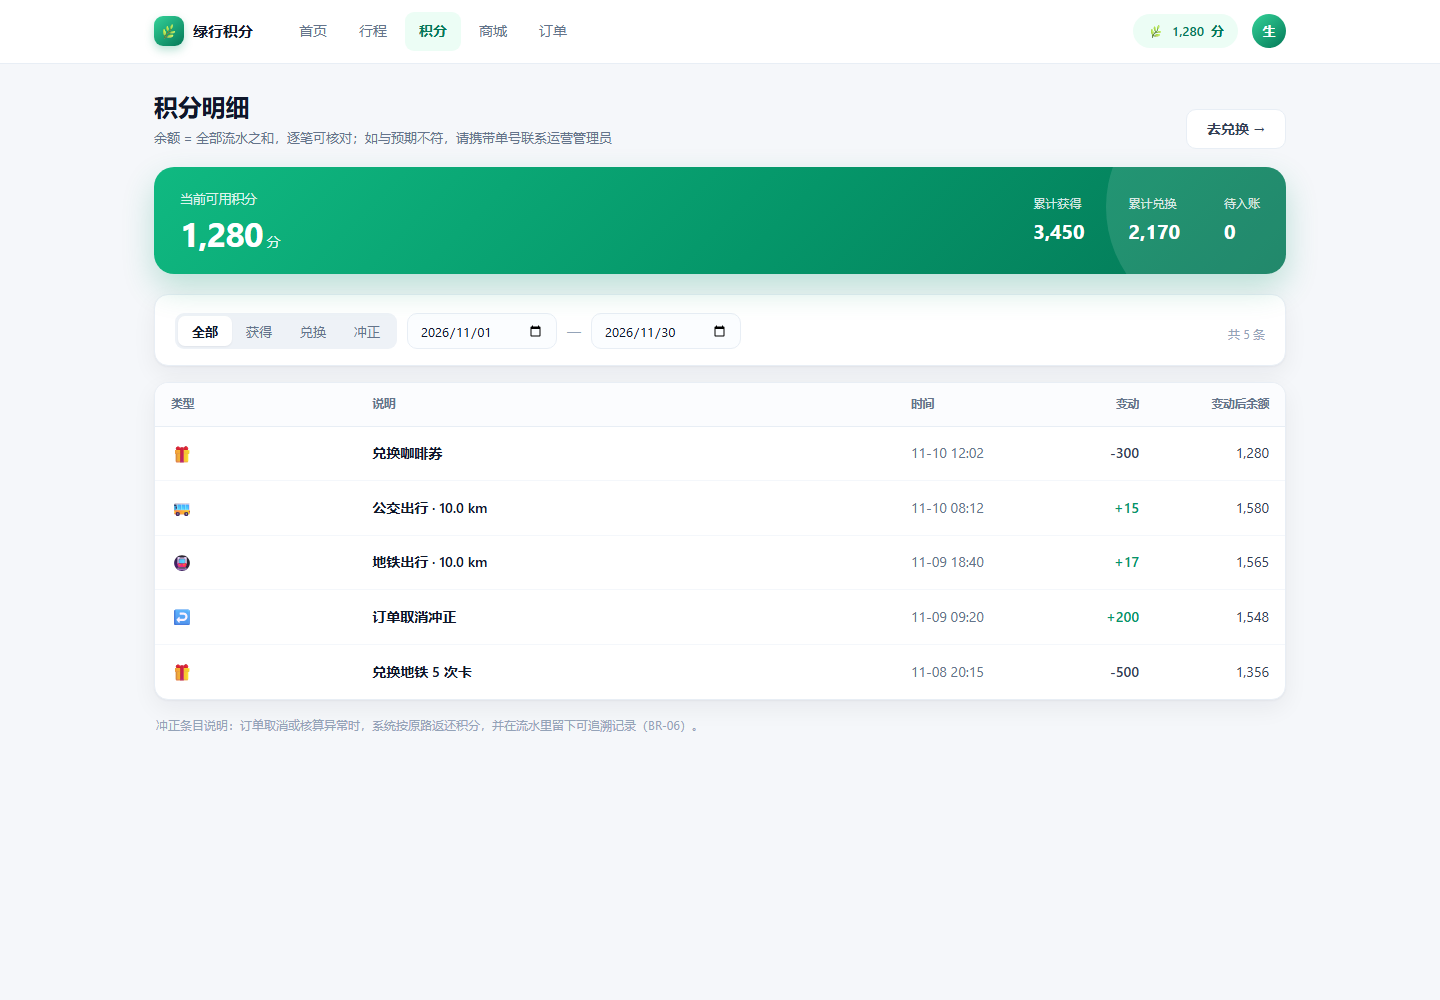
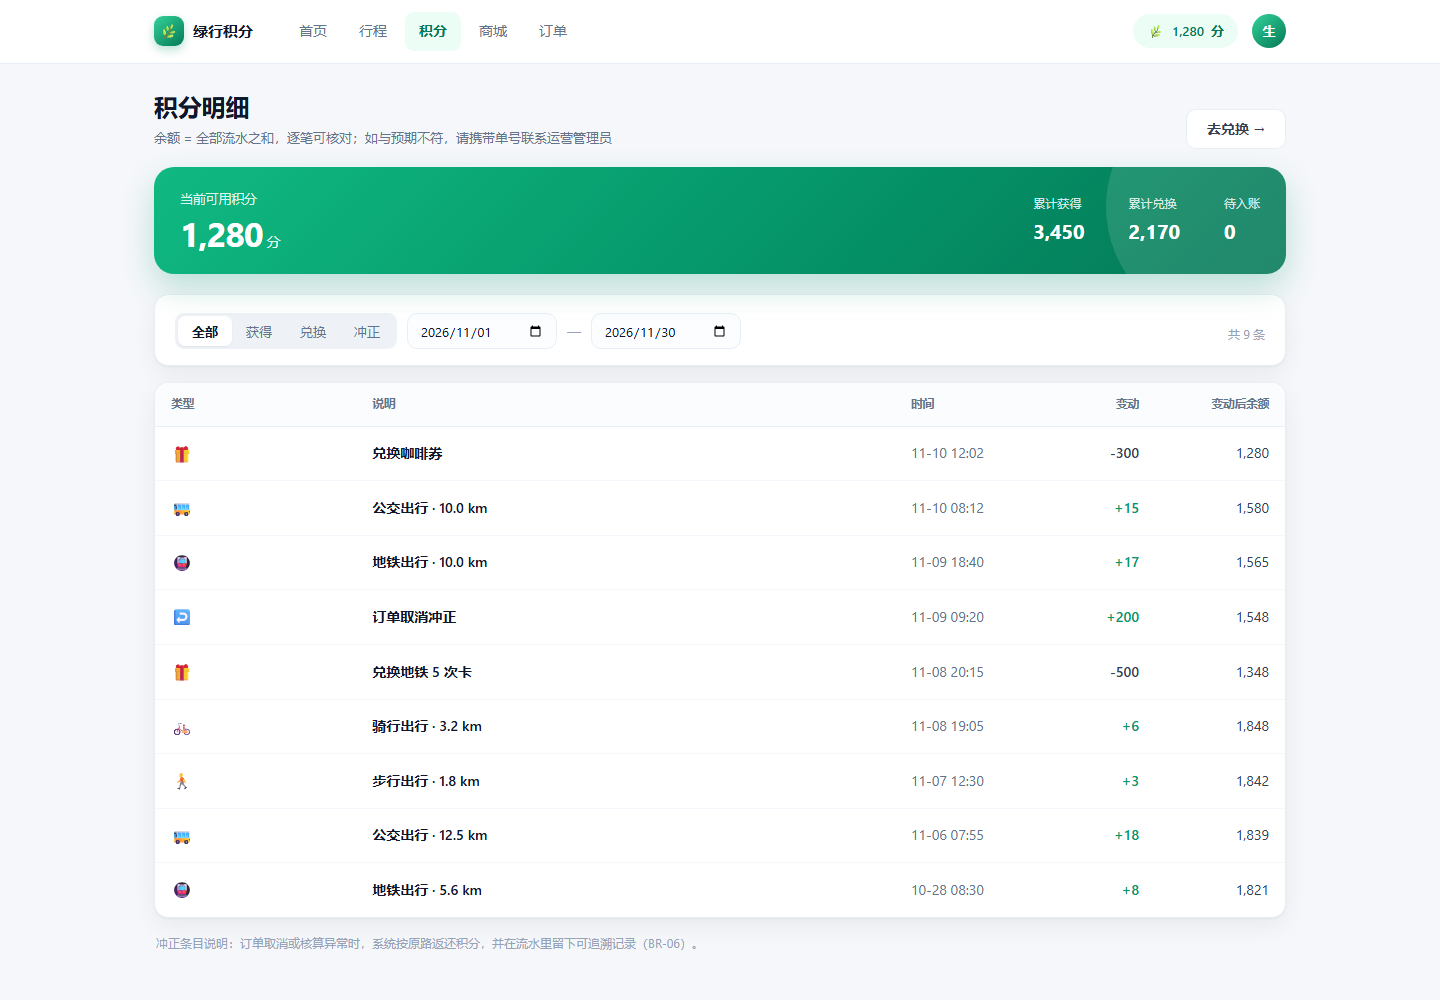
fix(ui): link trip detail ledger by tripId, drop fabricated balance
共享 Mock 流水增加 id/tripId 字段并按时间首尾相接（9 条，最后一笔 = 当前可用积分 1280）；明细页按 tripId 取关联条目，余额用条目自带 balance，取不到显示空态，不再写死 1,280 也不编造流水号。积分页条数改为按实际条目计算。

diff --git a/prototype-web/assets/app.js b/prototype-web/assets/app.js
@@ -16,12 +16,18 @@ const MOCK = {
     { id: 'T202610280006', mode: 'MET',  modeName: '地铁', icon: '🚇', km: 5.6,  red: 0.896, pts: 8,  date: '10-28 08:30', rule: 'R-2026-10-MET',
       from: '地铁二号线站', to: '软件园东门', start: '2026-10-28 08:16', end: '2026-10-28 08:30', calcAt: '2026-10-28 08:30:19' }
   ],
+  // 按时间倒序；balance = 这一笔之后的余额，逐笔首尾相接，最后一笔等于当前可用积分 1280
+  // tripId 指向 trips[].id，明细页按它取关联流水；null 表示与行程无关（兑换 / 冲正）
   ledger: [
-    { icon: '🎁', type: '兑换咖啡券', time: '11-10 12:02', delta: -300, balance: 1280, kind: 'out' },
-    { icon: '🚌', type: '公交出行 · 10.0 km', time: '11-10 08:12', delta: 15, balance: 1580, kind: 'in' },
-    { icon: '🚇', type: '地铁出行 · 10.0 km', time: '11-09 18:40', delta: 17, balance: 1565, kind: 'in' },
-    { icon: '↩', type: '订单取消冲正', time: '11-09 09:20', delta: 200, balance: 1548, kind: 'back' },
-    { icon: '🎁', type: '兑换地铁 5 次卡', time: '11-08 20:15', delta: -500, balance: 1356, kind: 'out' }
+    { id: 'L202611100003', tripId: null, icon: '🎁', type: '兑换咖啡券', time: '11-10 12:02', delta: -300, balance: 1280, kind: 'out' },
+    { id: 'L202611100001', tripId: 'T202611100001', icon: '🚌', type: '公交出行 · 10.0 km', time: '11-10 08:12', delta: 15, balance: 1580, kind: 'in' },
+    { id: 'L202611090002', tripId: 'T202611090002', icon: '🚇', type: '地铁出行 · 10.0 km', time: '11-09 18:40', delta: 17, balance: 1565, kind: 'in' },
+    { id: 'L202611090001', tripId: null, icon: '↩', type: '订单取消冲正', time: '11-09 09:20', delta: 200, balance: 1548, kind: 'back' },
+    { id: 'L202611080004', tripId: null, icon: '🎁', type: '兑换地铁 5 次卡', time: '11-08 20:15', delta: -500, balance: 1348, kind: 'out' },
+    { id: 'L202611080003', tripId: 'T202611080003', icon: '🚲', type: '骑行出行 · 3.2 km', time: '11-08 19:05', delta: 6, balance: 1848, kind: 'in' },
+    { id: 'L202611070004', tripId: 'T202611070004', icon: '🚶', type: '步行出行 · 1.8 km', time: '11-07 12:30', delta: 3, balance: 1842, kind: 'in' },
+    { id: 'L202611060005', tripId: 'T202611060005', icon: '🚌', type: '公交出行 · 12.5 km', time: '11-06 07:55', delta: 18, balance: 1839, kind: 'in' },
+    { id: 'L202610280006', tripId: 'T202610280006', icon: '🚇', type: '地铁出行 · 5.6 km', time: '10-28 08:30', delta: 8, balance: 1821, kind: 'in' }
   ],
   goods: [
     { id: 'G01', name: '环保帆布袋', icon: '👜', cost: 120, stock: 8,  state: 'ok' },

diff --git a/prototype-web/app/trip-detail.html b/prototype-web/app/trip-detail.html
@@ -85,6 +85,19 @@
   const rawText = String(Math.round(rawRed * 10000) / 10000);
   const kmText = t.km.toFixed(1);
 
+  // 关联流水：按 tripId 从共享 Mock 里取，余额用条目自带的 balance，不自己编
+  const rel = MOCK.ledger.filter(e => e.tripId === t.id);
+  const ledgerRows = rel.length
+    ? rel.map(e => `
+        <tr>
+          <td class="mono">${e.id}</td>
+          <td>${e.icon} ${e.type}</td>
+          <td class="r num" style="color:${e.delta > 0 ? 'var(--green-600)' : 'var(--ink-700)'};font-weight:700">${e.delta > 0 ? '+' : ''}${e.delta}</td>
+          <td class="r num">${fmt(e.balance)}</td>
+          <td class="num" style="color:var(--ink-500)">${e.time}</td>
+        </tr>`).join('')
+    : `<tr><td colspan="5" class="empty">这笔行程没有关联的积分流水（示意数据未覆盖）。真实环境按 <span class="mono">tripId</span> 关联，取不到就显示空态，不会编造余额。</td></tr>`;
+
   app.innerHTML = back + `
     <div class="page-head">
       <div>
@@ -133,15 +146,7 @@
           <div class="card-head" style="padding:18px 20px 0;margin-bottom:0"><h2>关联积分流水</h2><a class="more" href="points.html">全部流水 →</a></div>
           <table class="table">
             <thead><tr><th>流水号</th><th>类型</th><th class="r">变动</th><th class="r">变动后余额</th><th>时间</th></tr></thead>
-            <tbody>
-              <tr>
-                <td class="mono">${'L' + t.id.slice(1)}</td>
-                <td>行程奖励 EARN</td>
-                <td class="r num" style="color:var(--green-600);font-weight:700">+${snapPts}</td>
-                <td class="r num">1,280</td>
-                <td class="num" style="color:var(--ink-500)">${t.date}</td>
-              </tr>
-            </tbody>
+            <tbody>${ledgerRows}</tbody>
           </table>
         </section>
       </div>

diff --git a/prototype-web/app/points.html b/prototype-web/app/points.html
@@ -54,7 +54,7 @@
       <span style="color:var(--ink-400)">—</span>
       <input class="input" type="date" value="2026-11-30" style="width:150px">
       <div class="spacer"></div>
-      <span class="hint">共 5 条</span>
+      <span class="hint" id="cnt"></span>
     </div>
   </div>
 
@@ -80,6 +80,7 @@
 <script>
 function render(kind) {
   const rows = MOCK.ledger.filter(l => kind === 'ALL' || l.kind === kind);
+  document.getElementById('cnt').textContent = '共 ' + rows.length + ' 条';
   document.getElementById('rows').innerHTML = rows.map(l => `
     <tr>
       <td style="font-size:16px">${l.icon}</td>

diff --git a/docs/ui/06-states.md b/docs/ui/06-states.md
@@ -50,6 +50,7 @@
 ### 4.1 核算明细（`app/trip-detail.html`）
 - 页面由 `?id=` 驱动，数据取自同一份 Mock（`MOCK.trips` 按单号查），不是固定样例；里程、因子、减排量、积分都由公式现算，规则快照按 `ruleVersion` 反查。
 - 必须展示三步计算过程与规则快照（`ruleVersion / baseFactor / modeFactor / pointsRatio`），否则用户无法自证积分正确。
+- **关联流水不靠猜**：明细页按 `tripId` 从共享流水数据里取条目，余额直接用该条目的 `balance`；取不到就显示空态「这笔行程没有关联的积分流水」，不编造流水号或余额。
 - **取整只在最后一步**：减排量不舍入，`floor(未舍入减排量 × 比例)`；展示保留 2 位但计算用原值（0.896 → 8 分，不是先取 0.90 得 9 分）。列表与明细都用后端返回的入账快照，不各自重算。
 - 单号无效、缺 `?id=`、他人的行程：**一律 404「行程不存在」**（`40401`），三种情况措辞一致，不暴露存在性；该页不出现 403 态。
 - `PENDING` / `FAILED` 是**预留状态**：契约里同步上报「成功即落库并返回 `POINTED`，失败直接报错、不留半成品」，当前口径下不会产生；原型保留它们只为将来改异步核算时参考。
